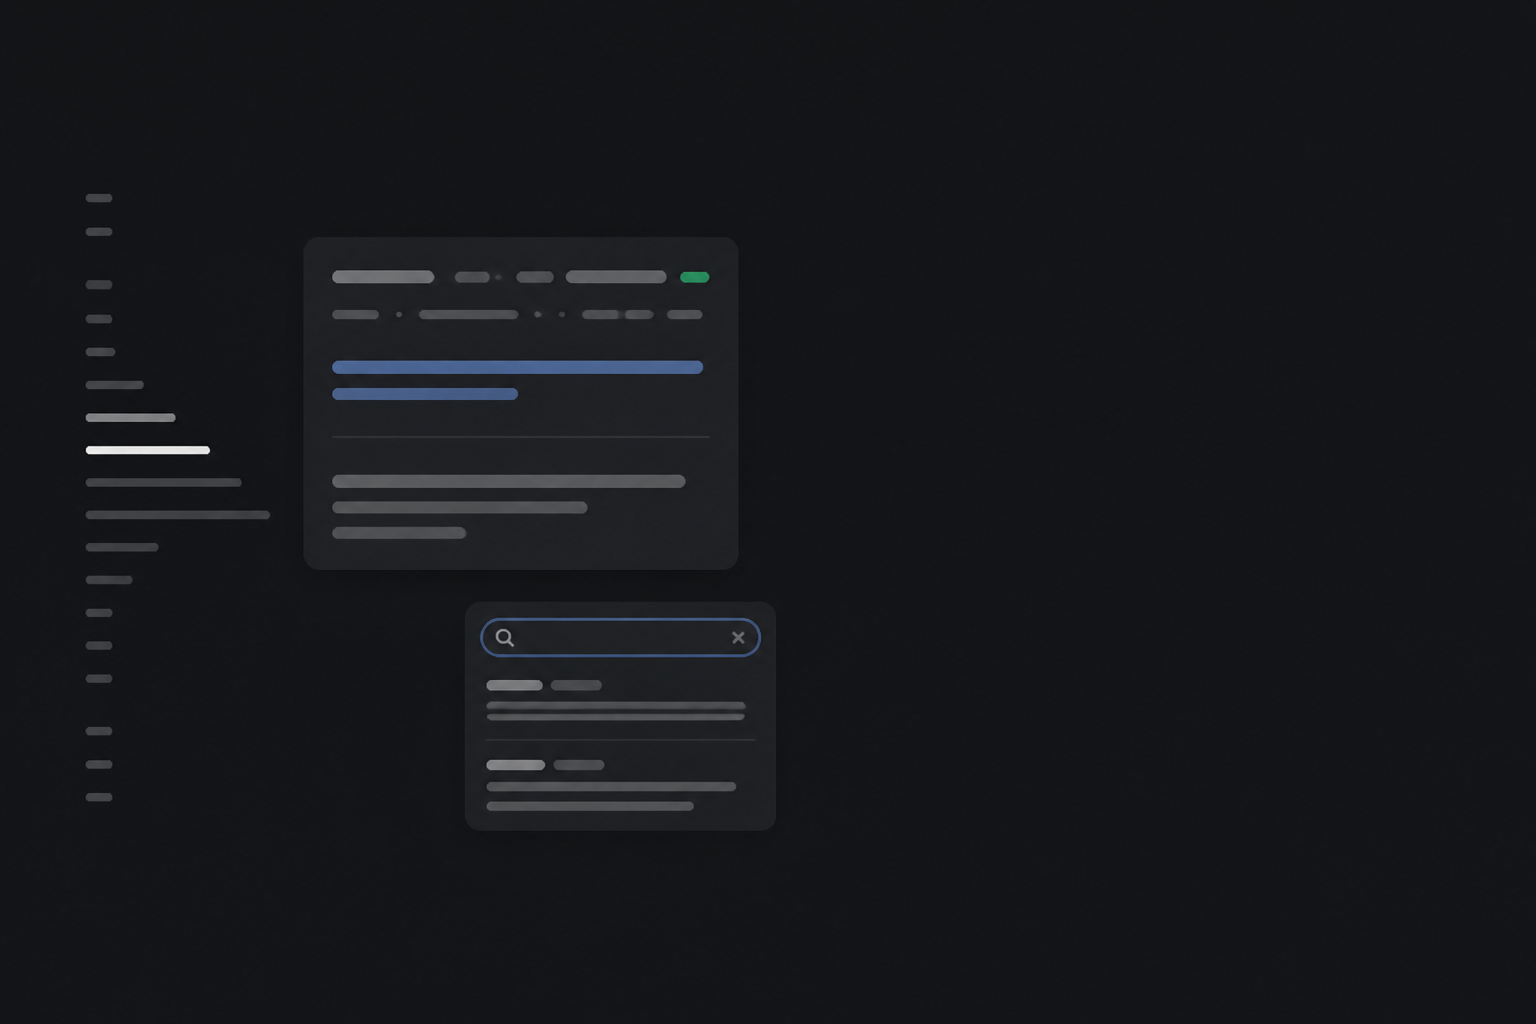
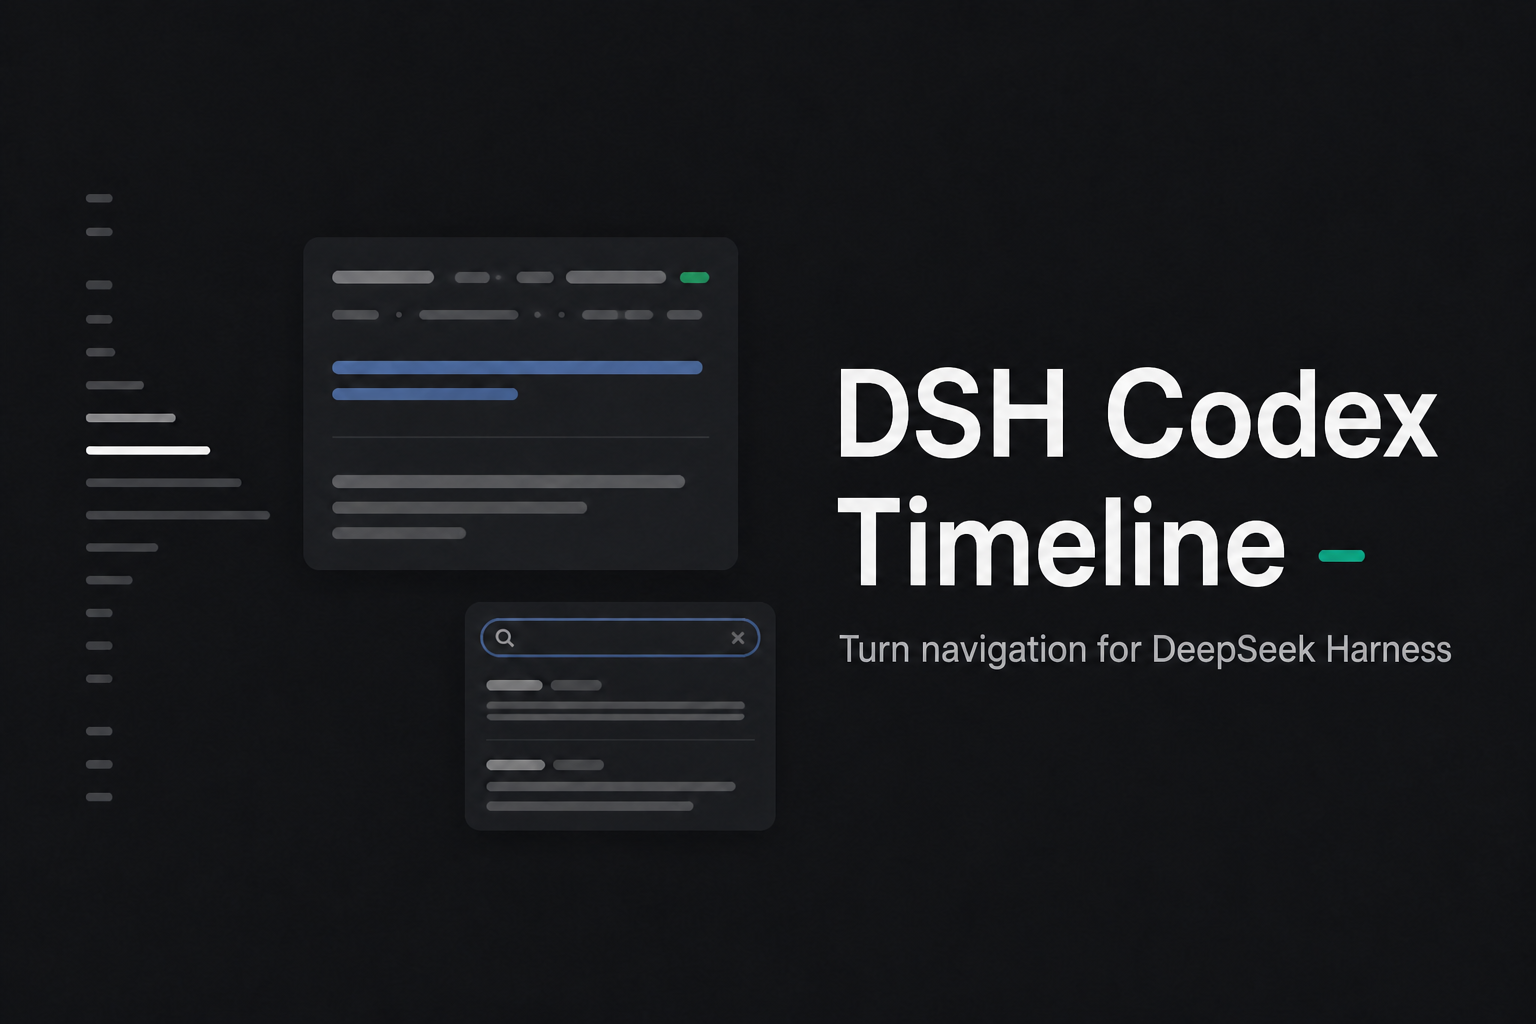
docs: use branded cover and demo copy

Changed region(s): [[0.5312, 0.3438, 0.9375, 0.5938], [0.5312, 0.625, 0.9375, 0.6562]]

diff --git a/README.en.md b/README.en.md
@@ -16,6 +16,12 @@ A subtle user-Turn navigation rail attached to the left edge of the active DeepS
 
 The rail stays quiet by default: each loaded user Turn is one short dash, and only the current reading position is highlighted. On hover, nearby markers expand into a stepped shape for accurate selection, then return to their compact state when the pointer leaves.
 
+<p align="center">
+  <img src="https://raw.githubusercontent.com/Wine-Red/dsh-codex-timeline/v0.1.1/docs/images/feature-preview.en.svg" width="960" alt="Turn preview and local search shown with test copy" />
+</p>
+
+> Every prompt, answer, metric, and search result in the illustration is fixed test copy. No real conversation content is used.
+
 <table>
   <tr>
     <th>Compact</th>
@@ -31,7 +37,7 @@ The rail stays quiet by default: each loaded user Turn is one short dash, and on
   </tr>
 </table>
 
-The cover visual summarizes the real interaction: hovering reveals Turn position, status, duration, TTFT, throughput, prompt, and model-answer context. Search shows each keyword in context and jumps directly to the matching Turn.
+The feature illustration summarizes the real interaction: hovering reveals Turn position, status, duration, TTFT, throughput, prompt, and model-answer context. Search shows each keyword in context and jumps directly to the matching Turn.
 
 ### Typical flow
 

diff --git a/README.md b/README.md
@@ -16,6 +16,12 @@
 
 轨道默认保持安静：每个已加载的用户 Turn 对应一条短横，只有当前阅读位置高亮。鼠标移入后，附近标记以阶梯状展开，便于准确选择；移出后立即恢复紧凑状态。
 
+<p align="center">
+  <img src="https://raw.githubusercontent.com/Wine-Red/dsh-codex-timeline/v0.1.1/docs/images/feature-preview.zh.svg" width="960" alt="使用测试文案展示轮次预览和本地搜索" />
+</p>
+
+> 图中的提问、回答、指标和搜索结果均为固定测试文案，不包含真实会话内容。
+
 <table>
   <tr>
     <th>默认状态</th>
@@ -31,7 +37,7 @@
   </tr>
 </table>
 
-封面中的预览卡片对应实际交互：悬停可查看轮次、状态、耗时、首 token 时间、速度、提问与模型回答；搜索入口会直接展示关键词及其前后文，并可跳转到对应 Turn。
+功能图中的预览卡片对应实际交互：悬停可查看轮次、状态、耗时、首 token 时间、速度、提问与模型回答；搜索入口会直接展示关键词及其前后文，并可跳转到对应 Turn。
 
 ### 使用路径
 
